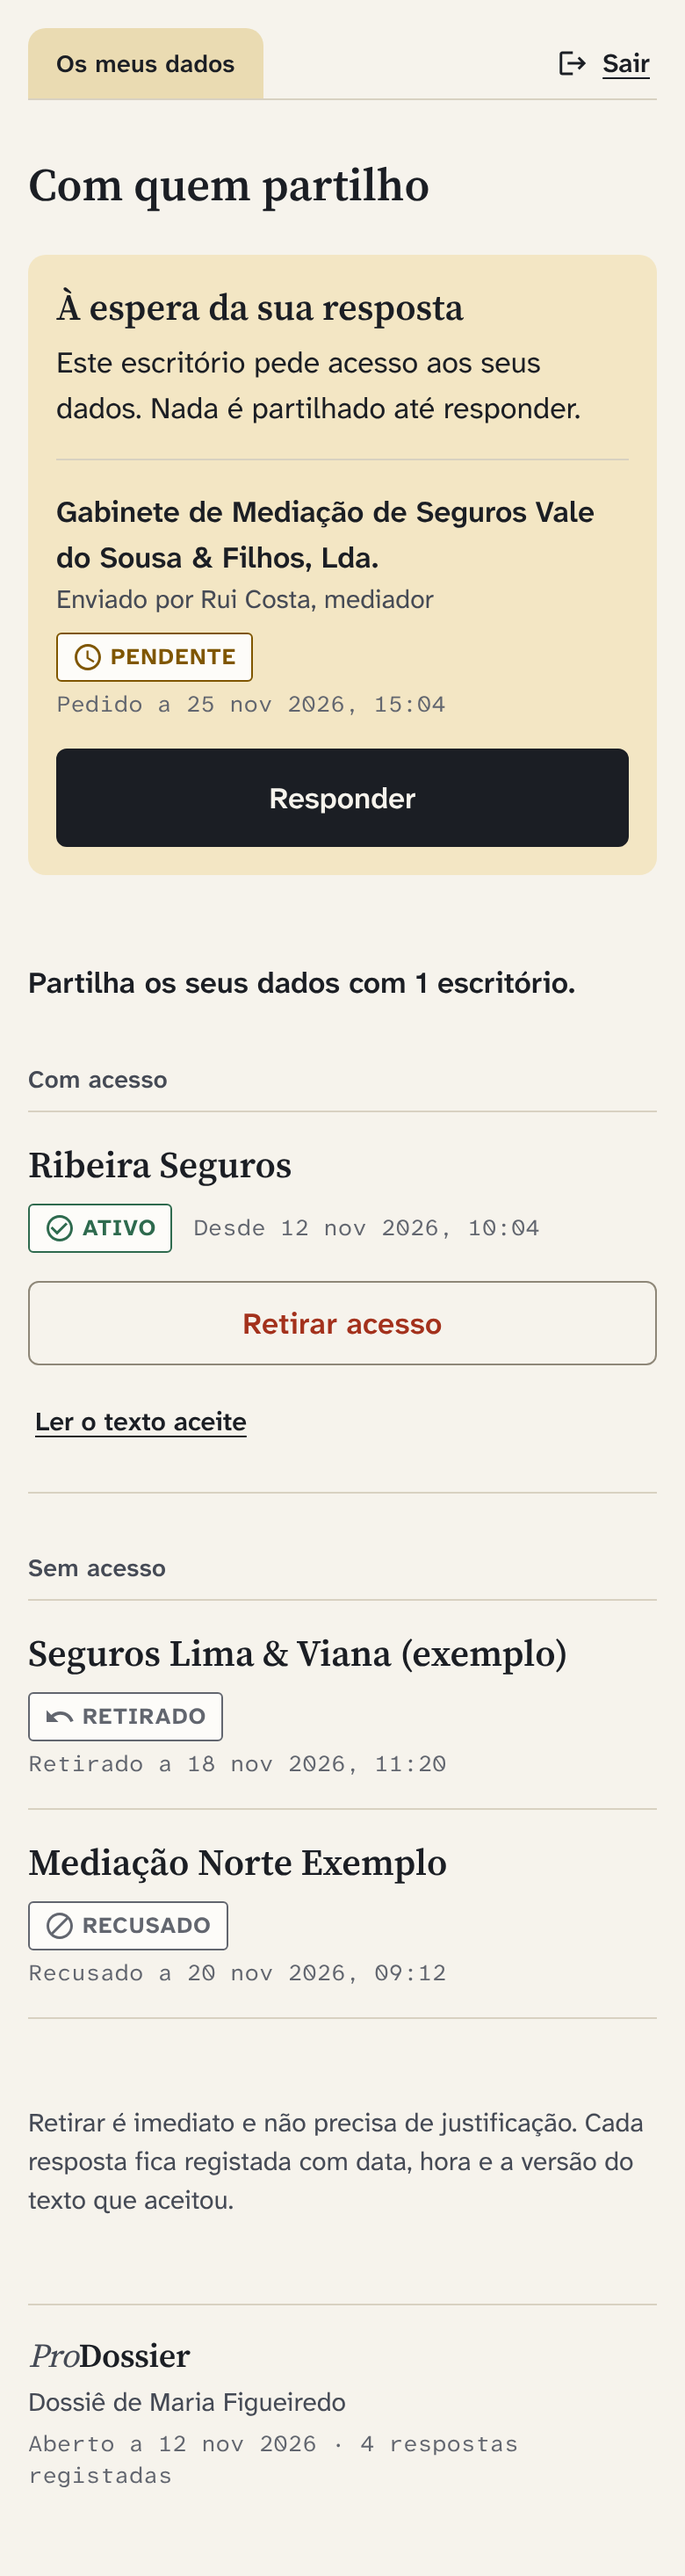
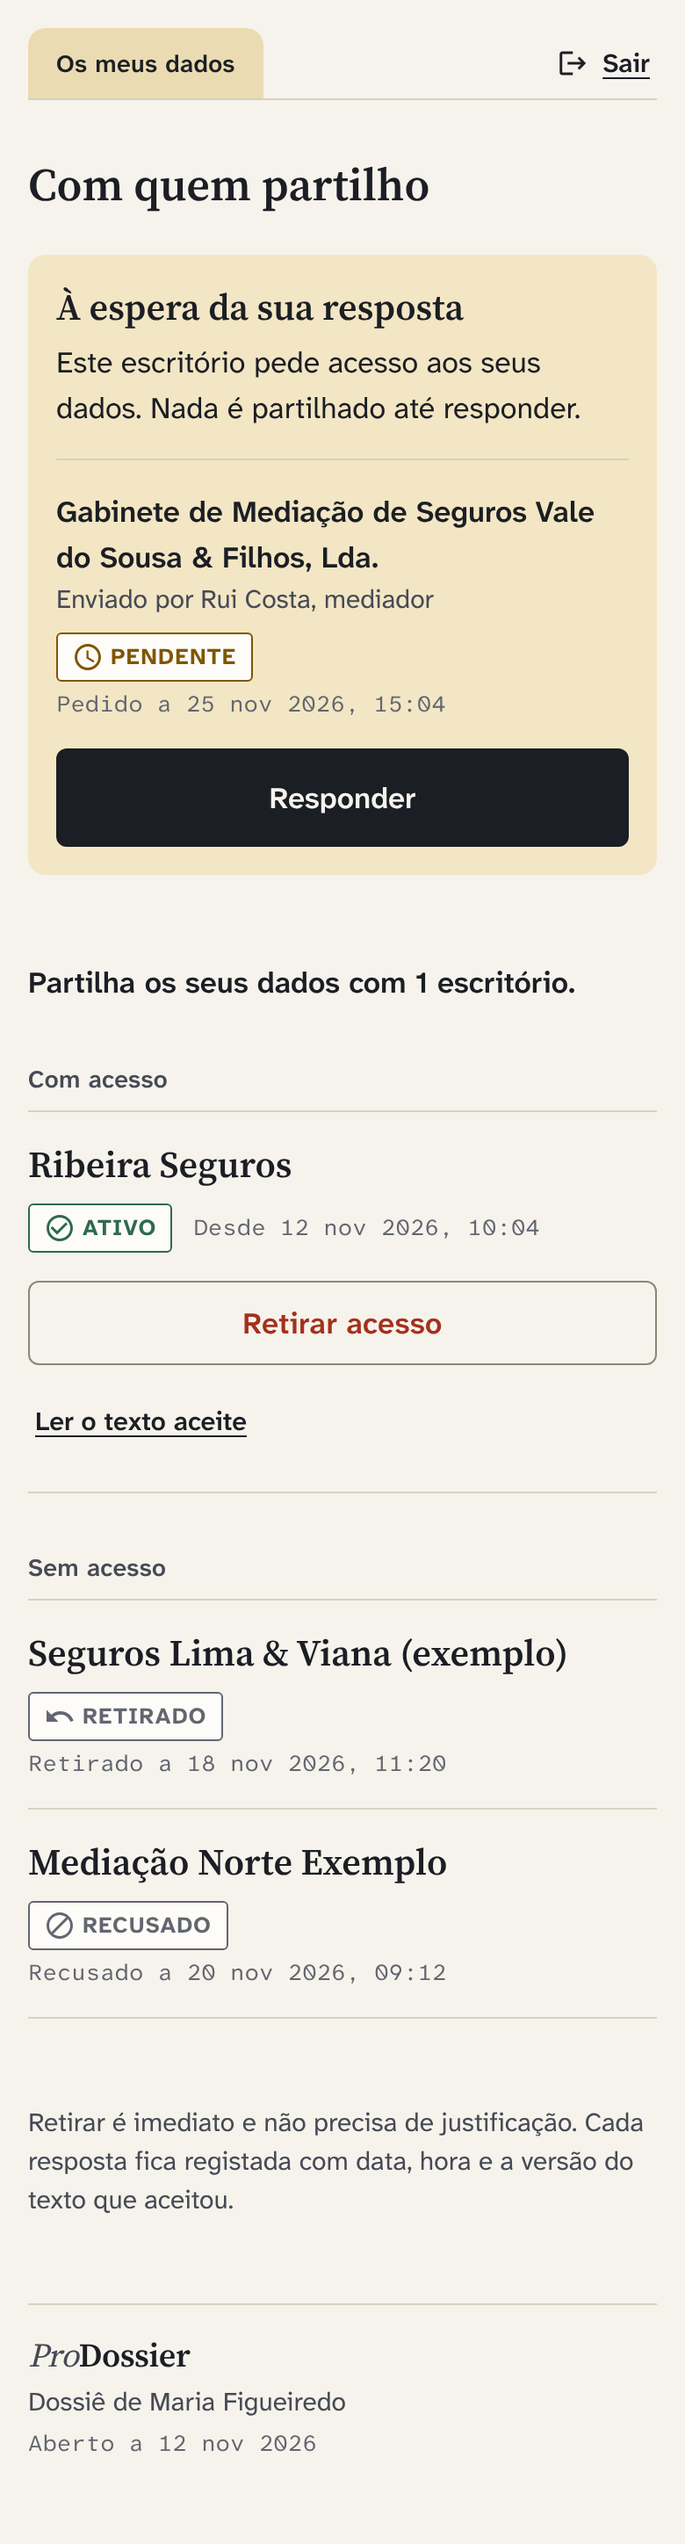
docs: propostas de marca

diff --git a/docs/features/001-fundacao/renders/src/marca.css b/docs/features/001-fundacao/renders/src/marca.css
@@ -17,10 +17,10 @@
 .separador.so-marca { padding: 0 var(--s16); }
 
 /* Ideia 2, selo: carimbo de registo da marca, a tinta, contorno duplo, nos momentos que ficam registados */
-.selo { display: inline-flex; flex-direction: column; align-items: flex-start; gap: var(--s4); padding: var(--s8) var(--s12); border: var(--controlo) solid var(--tinta); border-radius: var(--r-carimbo); outline: var(--fino) solid var(--tinta); outline-offset: var(--focoAf); background: var(--folha); color: var(--tinta); transform: rotate(-2deg); flex: none; }
+.selo { display: inline-flex; flex-direction: column; align-items: flex-start; gap: 0; padding: var(--s4) var(--s8); border: var(--controlo) solid var(--tinta); border-radius: var(--r-carimbo); outline: var(--fino) solid var(--tinta); outline-offset: var(--focoAf); background: var(--folha); color: var(--tinta); transform: rotate(-1.5deg); flex: none; }
 .selo .topo { display: flex; align-items: center; gap: var(--s8); }
-.selo .nome { font-family: var(--serif); font-size: 15px; line-height: 18px; font-weight: 700; letter-spacing: 1.2px; text-transform: uppercase; }
-.selo .registo { color: var(--tinta); letter-spacing: 0.4px; text-transform: uppercase; }
+.selo .nome { font-family: var(--serif); font-size: 13px; line-height: 16px; font-weight: 700; letter-spacing: 1px; text-transform: uppercase; }
+.selo .registo { color: var(--tinta); text-transform: uppercase; }
 .aviso.com-selo { display: flex; gap: var(--s24); align-items: center; justify-content: space-between; }
 @media (max-width: 639px) { .aviso.com-selo { flex-direction: column; align-items: flex-start; gap: var(--s16); } .aviso.com-selo .selo { margin-left: calc(var(--icone) + var(--s12)); } }
 

diff --git a/docs/features/001-fundacao/renders/src/marca-partilho.html b/docs/features/001-fundacao/renders/src/marca-partilho.html
@@ -100,7 +100,7 @@
     <div class="corpo-colofao">
       <span class="wordmark"><span class="pro">Pro</span><span class="dossier">Dossier</span></span>
       <span class="corpoPequeno media">Dossiê de Maria Figueiredo</span>
-      <span class="registo">Aberto a 12 nov 2026 · 4 respostas registadas</span>
+      <span class="registo">Aberto a 12 nov 2026</span>
     </div>
   </footer>
 </div></main>

diff --git a/docs/features/001-fundacao/renders/README.md b/docs/features/001-fundacao/renders/README.md
@@ -95,6 +95,22 @@ Sem marca nem linha de cabeçalho nos ecrãs com sessão: o separador é a prime
 
 As setas dos storyboards dizem a ação e a transição (tipo, duração e curva de `AppMotion`); a especificação completa está em `03-design.md`, "Transições entre ecrãs".
 
+## Marca (propostas de 2026-11-26, por escolher)
+
+Pedido do Henrique: a marca ProDossier tem de estar presente sem voltar ao cabeçalho com a marca (rejeitado) e com "Sair" na linha do separador. Três ideias, cada uma em Entrar (sem sessão) e Com quem partilho (com sessão), `-telemovel` e `-desktop`. Fonte: `src/marca-entrar.html` e `src/marca-partilho.html` com `?ideia=lombada|selo|colofao`, estilos em `src/marca.css`; gerar com `node docs/features/001-fundacao/renders/src/shoot-marca.js`. Nenhum PNG existente nem o `03-design.md`/`DESIGN.md` foram alterados.
+
+| Ideia | Ficheiros | O que muda | Racional |
+| --- | --- | --- | --- |
+| 1. Etiqueta da lombada (**recomendada**) | `marca-lombada-entrar-*`, `marca-lombada-com-quem-partilho-*` | Sem sessão, o separador mostra o wordmark em serifa ("*Pro*Dossier") em vez de "ProDossier" em `rotulo`. Com sessão, o separador passa a etiqueta de arquivo com dois campos: monograma "*p*D" (24 × 24, contorno 1.5 a `tinta`, raio `carimbo`) \| régua vertical `reguaForte` \| contexto ("Os meus dados" ou o escritório). "Sair" fica onde está. | A marca vive no único objeto decorativo que já existe, como a etiqueta impressa de uma pasta de arquivo: está em todos os ecrãs, acrescenta 53 px de largura ao separador (16 + 24 + 12 + régua) e não acrescenta nenhuma linha. |
+| 2. Selo de registo | `marca-selo-entrar-*` (estado link enviado), `marca-selo-com-quem-partilho-*` (estado acesso retirado) | Separador igual ao de hoje. Nos momentos que ficam registados (link enviado, consentimento aceite/recusado, acesso retirado) aparece um selo a tinta com contorno duplo (1.5 + 1 a 2 de afastamento), inclinado -1.5°: "PRODOSSIER" em serifa 13 maiúsculas e "REGISTADO · 26 NOV 2026, 15:02" em `registo`. | A marca aparece como quem certifica o registo: reforça a promessa de "fica registado com data e hora". Só aparece em 4 momentos, por isso nunca se torna papel de parede; mas fora deles a marca não está. |
+| 3. Colofão | `marca-colofao-entrar-*`, `marca-colofao-com-quem-partilho-*` (página inteira) | Sem sessão, o separador diz "Acesso" e a marca passa para o fim da página: régua, wordmark, uma frase ("O dossiê dos seus seguros, partilhado só com quem autorizar." / "Dossiê de Maria Figueiredo") e, com sessão, "Aberto a 12 nov 2026" em `registo`. | Acaba cada página como a última folha de um livro; dá à marca uma frase franca sobre o que a app faz. Mas em listas longas só se vê no fim do scroll (no telemóvel nunca no primeiro ecrã). |
+
+**Recomendação: 1, etiqueta da lombada**, com o selo da ideia 2 como acrescento opcional só no ecrã de "consentimento aceite" e "acesso retirado" se o Henrique quiser mais presença. A 1 é a única que põe a marca em todos os ecrãs sem acrescentar uma linha nem uma superfície, e usa a forma que já é a assinatura da app.
+
+**Wordmark (sim, precisa de tratamento próprio):** "ProDossier" em Source Serif 4, 19 / 24, espaçamento -0.2; "Pro" em itálico 400 a `tintaMedia`, "Dossier" em 600 a `tinta` (contraste sobre `cartolina`: 6.5 e 12.1). O itálico lê-se como a anotação à mão numa capa impressa, e separa as duas palavras sem maiúscula a meio a fazer esse trabalho. Monograma derivado: "*p*D" com a mesma lógica, para onde não cabe o wordmark (separador com sessão, favicon, ícone da app, emails). Tokens a propor no `DESIGN.md` se for escolhida: `AppType.marca` (Serif 19/24, 600, -0.2) e `AppSize.monograma`=24 (= `icone`). O selo da ideia 2 precisaria ainda de `AppType.selo` (Serif 13/16, 700, +1, maiúsculas).
+
+Aplicações fora destes ecrãs, para qualquer das ideias: o mesmo wordmark no topo dos emails (convite, link de acesso) e no ecrã de carregamento inicial (wordmark sozinho sobre `papel`, sem animação), e o monograma como favicon.
+
 ## Decisões para o Henrique olhar
 
 0a. **Ritmo vertical (2026-11-26, pedido do Henrique):** o separador de pasta cola-se à linha do topo (`s16` em cima, 48 de altura, 0 em baixo) em todos os ecrãs; sai o vazio extra de 32 / 48 / 72 acima dos formulários; "Sem acesso" passa a `s32` de "Com acesso". Todos os PNG regenerados.
